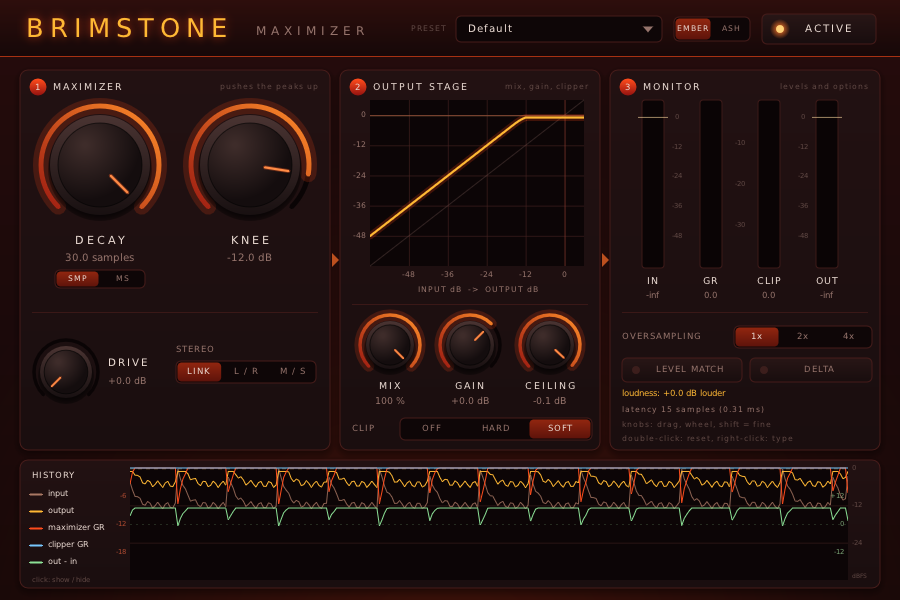
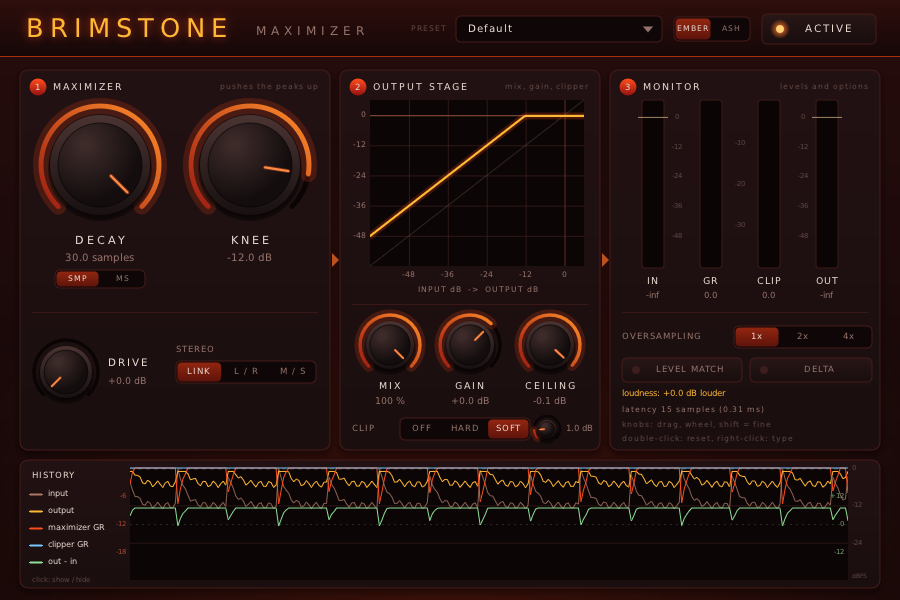
Soft clip knee (clip_knee, 0.1-6 dB below the ceiling)
Was fixed at 60 % of the ceiling (4.44 dB): Default rounded every peak
pushed to the ceiling by 0.87 dB.  Presets: Default and Loud master
1 dB (0.23 dB), Subtle 2 dB, Wide crush 4.44 dB (1.1.0 sound kept).
Small knob next to the Clip selector, greyed outside Soft; transfer
curve follows it; user preset key clip_knee.  Test 11 of test_dsp.

Changed region(s): [[0.4667, 0.69, 0.6533, 0.75], [0.56, 0.18, 0.6533, 0.21]]

diff --git a/plugin/BrimstoneUI.cpp b/plugin/BrimstoneUI.cpp
@@ -141,7 +141,7 @@ static const Rect kSecMon  = { 610, 70, 270, 380 };
 static const Rect kHistory = { 20, 460, 860, 128 };
 static const Rect kHistPlot = { 130, 468, 718, 112 };   // waveform / reduction area
 
-enum { kKnobDecay = 0, kKnobKnee, kKnobDrive, kKnobMix, kKnobGain, kKnobCeiling, kNumKnobs };
+enum { kKnobDecay = 0, kKnobKnee, kKnobDrive, kKnobMix, kKnobGain, kKnobCeiling, kKnobClipKnee, kNumKnobs };
 
 struct KnobDef {
     int param;          // kParamDecay is replaced by kParamDecayMs when the unit is ms
@@ -149,27 +149,31 @@ struct KnobDef {
     bool labelRight;    // small knob of the maximizer section: label on the right
     const char* label;
     const char* help;
+    bool compact;       // tiny knob in a row of selectors: no label, value on the right
 };
 
 static const KnobDef kKnobs[kNumKnobs] = {
     { kParamDecay,   100.0f, 165.0f, 50.0f, false, "DECAY",
-      "Release of the envelope. Short: harder and grittier; long: smoother." },
+      "Release of the envelope. Short: harder and grittier; long: smoother.", false },
     { kParamKnee,    250.0f, 165.0f, 50.0f, false, "KNEE",
-      "Peaks above the knee are pushed to the ceiling; below it the gain is constant (makeup)." },
+      "Peaks above the knee are pushed to the ceiling; below it the gain is constant (makeup).", false },
     { kParamDrive,    66.0f, 372.0f, 26.0f, true,  "DRIVE",
-      "Gain into the maximizer only: the dry signal of the mix is not changed." },
+      "Gain into the maximizer only: the dry signal of the mix is not changed.", false },
     { kParamMix,     390.0f, 345.0f, 24.0f, false, "MIX",
-      "Balance between the dry signal and the maximizer. 0 %: maximizer off, pure clipper." },
+      "Balance between the dry signal and the maximizer. 0 %: maximizer off, pure clipper.", false },
     { kParamGain,    470.0f, 345.0f, 24.0f, false, "GAIN",
-      "Gain after the mix, into the clipper: pushes the peaks over the ceiling." },
+      "Gain after the mix, into the clipper: pushes the peaks over the ceiling.", false },
     { kParamCeiling, 550.0f, 345.0f, 24.0f, false, "CEILING",
-      "Highest output level. Peaks above it are clipped when Clip is Hard or Soft." },
+      "Highest output level. Peaks above it are clipped when Clip is Hard or Soft.", false },
+    { kParamClipKnee, 547.0f, 429.0f, 9.0f, false, "SOFT KNEE",
+      "Clip Soft: the rounding starts this many dB below the ceiling. Small: closer to Hard, louder "
+      "peaks; large: rounder, peaks pushed to the ceiling come out lower.", true },
 };
 
 static const Rect kUnit    = { 55, 270, 90, 18 };
 static const Rect kStereo  = { 176, 361, 140, 22 };
 static const Rect kGraph   = { 348, 96, 244, 200 };
-static const Rect kClip    = { 400, 418, 192, 22 };
+static const Rect kClip    = { 400, 418, 130, 22 };
 static const Rect kOvers   = { 734, 326, 138, 22 };
 static const Rect kMatch   = { 622, 358, 120, 24 };
 static const Rect kDelta   = { 750, 358, 122, 24 };
@@ -212,7 +216,8 @@ static const Zone kZones[kNumZones] = {
     { kGraph, "TRANSFER CURVE",
       "Output level for a steady input level, all settings included. The dot follows the input." },
     { kClip, "CLIP",
-      "OFF: like the original, may exceed 0 dBFS. HARD: flat at the ceiling. SOFT: rounded above 60 %." },
+      "OFF: like the original, may exceed 0 dBFS. HARD: flat at the ceiling. SOFT: rounded from "
+      "the soft knee (small knob on the right) up to the ceiling." },
     { kOvers, "OVERSAMPLING",
       "Runs the processing at 2x or 4x the sample rate: less aliasing, more latency and CPU." },
     { kMatch, "LEVEL MATCH",
@@ -1025,6 +1030,7 @@ private:
         case kParamMix:     std::snprintf(buf, size, "%.0f %%", v); break;
         case kParamGain:    std::snprintf(buf, size, "%+.1f dB", v); break;
         case kParamCeiling: std::snprintf(buf, size, "%.1f dB", v); break;
+        case kParamClipKnee: std::snprintf(buf, size, "%.1f dB", v); break;
         default:            std::snprintf(buf, size, "%.2f", v); break;
         }
     }
@@ -1278,7 +1284,12 @@ private:
         drawKnob(kKnobCeiling);
         label(kSecOut.x + 12, kClip.y + kClip.h * 0.5f, 10, fT->dim, ALIGN_LEFT | ALIGN_MIDDLE, "CLIP", 1);
         const char* const clip[3] = { "OFF", "HARD", "SOFT" };
-        segmented(kClip, clip, 3, static_cast<int>(std::lround(fValues[kParamClip])), 10);
+        const int clipMode = static_cast<int>(std::lround(fValues[kParamClip]));
+        segmented(kClip, clip, 3, clipMode, 10);
+        if (clipMode != kClipSoft)
+            globalAlpha(0.3f);   // the soft knee only acts in Soft
+        drawKnob(kKnobClipKnee);
+        globalAlpha(1.0f);
     }
 
     void drawMonitorSection()
@@ -1323,8 +1334,8 @@ private:
         const float n = toNorm(p, fValues[p]);
         const float a = kArcStart + n * kArcSweep;
         const bool big = k.r > 40.0f;
-        const float track = k.r + (big ? 9.0f : 6.0f);
-        const float tw = big ? 5.0f : 3.5f;
+        const float track = k.r + (big ? 9.0f : k.compact ? 4.0f : 6.0f);
+        const float tw = big ? 5.0f : k.compact ? 2.5f : 3.5f;
 
         beginPath();
         arc(k.cx, k.cy, track, kArcStart, kArcStart + kArcSweep, CW);
@@ -1372,10 +1383,10 @@ private:
         moveTo(k.cx + ca * k.r * 0.30f, k.cy + sa * k.r * 0.30f);
         lineTo(k.cx + ca * k.r * 0.78f, k.cy + sa * k.r * 0.78f);
         lineCap(ROUND);
-        strokeWidth(big ? 4.0f : 3.0f);
+        strokeWidth(big ? 4.0f : k.compact ? 2.4f : 3.0f);
         strokeColor(fT->pointerGlow);
         stroke();
-        strokeWidth(big ? 2.2f : 1.8f);
+        strokeWidth(big ? 2.2f : k.compact ? 1.4f : 1.8f);
         strokeColor(active ? fT->gold : fT->pointer);
         stroke();
 
@@ -1383,7 +1394,13 @@ private:
         valueText(p, buf, sizeof(buf));
         float vx, vy;
         int align;
-        if (k.labelRight)
+        if (k.compact)
+        {
+            vx = k.cx + k.r + 10;   // no label (it is in the tooltip), the value on the right
+            vy = k.cy;
+            align = ALIGN_LEFT | ALIGN_MIDDLE;
+        }
+        else if (k.labelRight)
         {
             label(k.cx + k.r + 16, k.cy - 9, 12, fT->text, ALIGN_LEFT | ALIGN_MIDDLE, k.label, 2);
             vx = k.cx + k.r + 16;
@@ -1401,7 +1418,7 @@ private:
 
         if (i == fEdit)
         {
-            const float bw = 76.0f, bx = k.labelRight ? vx - 4 : vx - bw * 0.5f;
+            const float bw = k.compact ? 46.0f : 76.0f, bx = k.labelRight || k.compact ? vx - 4 : vx - bw * 0.5f;
             beginPath();
             roundedRect(bx, vy - 10, bw, 20, 4);
             fillColor(fT->deepWell);
@@ -1415,13 +1432,13 @@ private:
         }
         else
         {
-            label(vx, vy, big ? 12 : 11, active ? fT->gold : fT->dim, align, buf);
+            label(vx, vy, big ? 12 : k.compact ? 10 : 11, active ? fT->gold : fT->dim, align, buf);
         }
     }
 
-    static float softClip(const float x, const float ceiling)
+    float softClip(const float x, const float ceiling) const
     {
-        const float t = 0.6f * ceiling;
+        const float t = std::pow(10.0f, -fValues[kParamClipKnee] * 0.05f) * ceiling;
         if (x <= t)
             return x;
         const float r = ceiling - t;

diff --git a/plugin/BrimstoneParams.hpp b/plugin/BrimstoneParams.hpp
@@ -21,6 +21,7 @@ enum BrimstoneParam {
     kParamGain,        // gain into the clipper (after the mix), dB
     kParamOversampling,// 0 = 1x, 1 = 2x, 2 = 4x
     kParamMatch,       // level-matched listening (0/1)
+    kParamClipKnee,    // soft clip: the rounding starts this many dB below the ceiling
     kParamBypass,      // host bypass
     kParamDelta,       // listen to the difference: output minus the input at the linear gain (0/1)
     // outputs
@@ -57,6 +58,7 @@ static const BrimstoneRange kBrimstoneRanges[kParamCount] = {
     { -24.0f,  12.0f,   0.0f },   // output
     {   0.0f,   2.0f,   0.0f },   // oversampling
     {   0.0f,   1.0f,   0.0f },   // match
+    {   0.1f,   6.0f,   1.0f },   // clip knee, dB below the ceiling (1.1.0: 4.44 dB = 60 %)
     {   0.0f,   1.0f,   0.0f },   // bypass
     {   0.0f,   1.0f,   0.0f },   // delta
     { -60.0f,   6.0f, -60.0f },   // meter in
@@ -72,8 +74,9 @@ static const BrimstoneRange kBrimstoneRanges[kParamCount] = {
 };
 
 // ------------------------------------------------------------------------------------------------
-// Factory presets: values of the input parameters kParamDecay .. kParamMatch (bypass and delta,
-// monitoring switches, excluded).
+// Factory presets: values of the input parameters kParamDecay .. kParamClipKnee (bypass and
+// delta, monitoring switches, excluded).  Clip knee: 1 dB costs 0.23 dB on peaks pushed to the
+// ceiling, 2 dB 0.45 dB, 4.44 dB (the fixed 60 % of 1.1.0) 0.87 dB.
 
 static const int kPresetParamCount = kParamBypass;
 
@@ -83,15 +86,15 @@ struct BrimstonePreset {
 };
 
 static const BrimstonePreset kBrimstonePresets[] = {
-    //                     decay  ms   unit  knee  drive ceil  clip stereo mix  gain os  match
-    { "Default",         { 30.0f, 0.68f, 0, -12.0f, 0.0f, -0.1f, 2, 0, 100.0f,  0.0f, 0, 0 } },
-    { "Original (swh)",  { 30.0f, 0.68f, 0, -12.0f, 0.0f,  0.0f, 0, 1, 100.0f,  0.0f, 0, 0 } },
-    { "Subtle",          { 30.0f, 0.68f, 0,  -6.0f, 0.0f, -0.3f, 2, 0,  60.0f,  0.0f, 1, 0 } },
-    { "Loud master",     { 30.0f, 1.50f, 1, -14.0f, 3.0f, -0.3f, 2, 0, 100.0f,  0.0f, 2, 0 } },
-    { "Wide crush",      { 12.0f, 0.27f, 0, -24.0f, 0.0f, -0.5f, 2, 2,  70.0f,  0.0f, 1, 0 } },
-    { "Destruction",     {  2.0f, 0.05f, 0, -45.0f, 12.0f, -1.0f, 1, 1, 100.0f, -3.0f, 0, 0 } },
+    //                     decay  ms   unit  knee  drive ceil  clip stereo mix  gain os  match cknee
+    { "Default",         { 30.0f, 0.68f, 0, -12.0f, 0.0f, -0.1f, 2, 0, 100.0f,  0.0f, 0, 0, 1.0f } },
+    { "Original (swh)",  { 30.0f, 0.68f, 0, -12.0f, 0.0f,  0.0f, 0, 1, 100.0f,  0.0f, 0, 0, 1.0f } },
+    { "Subtle",          { 30.0f, 0.68f, 0,  -6.0f, 0.0f, -0.3f, 2, 0,  60.0f,  0.0f, 1, 0, 2.0f } },
+    { "Loud master",     { 30.0f, 1.50f, 1, -14.0f, 3.0f, -0.3f, 2, 0, 100.0f,  0.0f, 2, 0, 1.0f } },
+    { "Wide crush",      { 12.0f, 0.27f, 0, -24.0f, 0.0f, -0.5f, 2, 2,  70.0f,  0.0f, 1, 0, 4.44f } },
+    { "Destruction",     {  2.0f, 0.05f, 0, -45.0f, 12.0f, -1.0f, 1, 1, 100.0f, -3.0f, 0, 0, 1.0f } },
     // pure clipper: mix 0 % bypasses the maximizer core, Gain drives the clipper
-    { "Clipper",         { 30.0f, 0.68f, 0, -12.0f, 0.0f, -0.3f, 1, 1,   0.0f,  3.0f, 2, 0 } },
+    { "Clipper",         { 30.0f, 0.68f, 0, -12.0f, 0.0f, -0.3f, 1, 1,   0.0f,  3.0f, 2, 0, 1.0f } },
 };
 
 static const int kBrimstonePresetCount = sizeof(kBrimstonePresets) / sizeof(kBrimstonePresets[0]);

diff --git a/plugin/BrimstonePlugin.cpp b/plugin/BrimstonePlugin.cpp
@@ -236,10 +236,9 @@ private:
 
 // ------------------------------------------------------------------------------------------------
 
-static inline float softClip(const float x, const float ceiling)
+// linear up to t (below the ceiling: the knee), then a tanh shoulder that never exceeds the ceiling
+static inline float softClip(const float x, const float ceiling, const float t)
 {
-    // linear up to 60 % of the ceiling, then a tanh shoulder that never exceeds the ceiling
-    const float t = 0.6f * ceiling;
     const float a = std::fabs(x);
     if (a <= t)
         return x;
@@ -395,6 +394,7 @@ protected:
             set(p, "Oversampling", "oversampling", "");
             enumeration(p, 3, "1x", "2x", "4x");
             break;
+        case kParamClipKnee: set(p, "Clip knee", "clip_knee", "dB"); break;
         case kParamMatch:
             set(p, "Level match", "match", "");
             p.hints |= kParameterIsBoolean | kParameterIsInteger;
@@ -480,6 +480,7 @@ protected:
         const float ceilT = dbToGain(fParams[kParamCeiling]);
         const float mixT = fParams[kParamMix] * 0.01f;
         const float outT = dbToGain(fParams[kParamGain]);
+        const float softT = dbToGain(-fParams[kParamClipKnee]);   // knee of the soft clip / ceiling
         const float bypassT = fParams[kParamBypass] > 0.5f ? 1.0f : 0.0f;
         const float deltaT = fParams[kParamDelta] > 0.5f ? 1.0f : 0.0f;
         const bool deltaOn = deltaT > 0.0f || fDelta > 0.0f;
@@ -517,6 +518,7 @@ protected:
                 fCeil += (ceilT - fCeil) * sm;
                 fMix += (mixT - fMix) * sm;
                 fOut += (outT - fOut) * sm;
+                fSoft += (softT - fSoft) * sm;
 
                 Detector& da = fDet[fActive];
                 Detector& db = fDet[1 - fActive];
@@ -589,7 +591,7 @@ protected:
                     if (clip == kClipHard)
                         yc = std::fmin(std::fmax(y, -fCeil), fCeil);
                     else if (clip == kClipSoft)
-                        yc = softClip(y, fCeil);
+                        yc = softClip(y, fCeil, fSoft * fCeil);
                     if (yc != y)
                         minClip = std::fmin(minClip, yc / y);
                     wetInt[c][o] = yc;
@@ -844,6 +846,7 @@ private:
         fCeil = dbToGain(fParams[kParamCeiling]);
         fMix = fParams[kParamMix] * 0.01f;
         fOut = dbToGain(fParams[kParamGain]);
+        fSoft = dbToGain(-fParams[kParamClipKnee]);
         fBypass = fParams[kParamBypass] > 0.5f ? 1.0f : 0.0f;
         fDelta = fParams[kParamDelta] > 0.5f ? 1.0f : 0.0f;
         fSmoothInt = static_cast<float>(1.0 - std::exp(-1.0 / (0.01 * sr * os)));
@@ -871,7 +874,8 @@ private:
     unsigned fMask = 0, fBaseMask = 0, fPos = 0, fBasePos = 0;
     unsigned fLfix = 0, fLatency = 0;
     int fConfigKey = -1;
-    float fKnee = 1.0f, fDrive = 1.0f, fCeil = 1.0f, fMix = 1.0f, fOut = 1.0f, fBypass = 0.0f, fDelta = 0.0f;
+    float fKnee = 1.0f, fDrive = 1.0f, fCeil = 1.0f, fMix = 1.0f, fOut = 1.0f, fSoft = 0.6f;
+    float fBypass = 0.0f, fDelta = 0.0f;
     float fSmoothInt = 0.0f, fSmoothBase = 0.0f;
     float fMeterIn = 0.0f, fMeterOut = 0.0f, fMeterRel = 1.0f, fMeterClip = 1.0f;
     RecentPeak fRecentIn, fRecentOut, fRecentGR, fRecentClip;

diff --git a/tests/test_dsp.cpp b/tests/test_dsp.cpp
@@ -15,6 +15,7 @@
  * 8. Meters: maximizer and clipper reductions, history peaks.
  * 10. Delta: zero when nothing is clipped nor reduced; with the Clipper preset, exactly what the
  *     clipper removes; Bypass has priority.
+ * 11. Soft clip knee: at 1x with Mix 0, output == soft clip of (input x gain) from the knee.
  * 9. Denormals: FTZ / DAZ are switched on in run() only, the FPU state of the caller is
  *    restored (the gain in silence is measured by tests/bench_cpu.cpp).
  */
@@ -421,6 +422,35 @@ int main()
         for (size_t i = lb; i < N; ++i)
             same = same && oL[i] == L[i - lb] && oR[i] == R[i - lb];
         check(same, "bypass and delta: output == input delayed, exactly");
+    }
+
+    // 11. soft clip knee -----------------------------------------------------------------------
+    std::printf("11. soft clip knee (mix 0, 1x)\n");
+    {
+        Settings s;
+        for (int i = 0; i < kPresetParamCount; ++i)
+            s.values[i] = kBrimstonePresets[0].values[i];
+        s.values[kParamMix] = 0.0f;
+        s.values[kParamGain] = 6.0f;
+        s.values[kParamClip] = kClipSoft;
+        for (const float kneeDb : { 0.1f, 1.0f, 4.44f, 6.0f })
+        {
+            s.values[kParamClipKnee] = kneeDb;
+            const uint32_t lat = process(s, L, R, oL, oR);
+            const float g = dbToGain(6.0f), c = dbToGain(s.values[kParamCeiling]);
+            const float t = c * dbToGain(-kneeDb);
+            float err = 0.0f, peak = 0.0f;
+            for (size_t i = lat; i < N; ++i)
+            {
+                const float x = L[i - lat] * g;
+                err = std::max(err, fabsf(oL[i] - softClip(x, c, t)));
+                peak = std::max(peak, fabsf(oL[i]));
+            }
+            char buf[128];
+            std::snprintf(buf, sizeof(buf), "knee %.2f dB: out == soft clip from the knee, max error %.1e, peak %.2f dBFS",
+                          kneeDb, err, 20.0f * log10f(peak));
+            check(err < 1e-6f && peak <= c, buf);
+        }
     }
 
     std::printf("%s\n", gFailures ? "FAILED" : "all tests passed");

diff --git a/tests/test_user_presets.cpp b/tests/test_user_presets.cpp
@@ -48,12 +48,12 @@ int main()
     check(!save("Default", kBrimstonePresets[0].values) && !save("loud MASTER", kBrimstonePresets[0].values),
           "factory names refused");
 
-    const float a[kPresetParamCount] = { 17.25f, 0.4123457f, 1, -33.3f, 6.5f, -0.3f, 1, 2, 62.5f, -1.75f, 2, 1 };
+    const float a[kPresetParamCount] = { 17.25f, 0.4123457f, 1, -33.3f, 6.5f, -0.3f, 1, 2, 62.5f, -1.75f, 2, 1, 2.7f };
     check(save("Bright", a), "save");
     float r[kPresetParamCount] = { 0 };
     check(load("Bright", r) && sameValues(a, r), "read back exactly");
 
-    const float b[kPresetParamCount] = { 2, 0.05f, 0, -90, 0, -12, 0, 0, 0, -24, 0, 0 };
+    const float b[kPresetParamCount] = { 2, 0.05f, 0, -90, 0, -12, 0, 0, 0, -24, 0, 0, 0.1f };
     check(save("aggressive", b) && save("Calm", kBrimstonePresets[2].values), "save two more");
     const std::vector<std::string> names = list();
     check(names.size() == 3 && names[0] == "aggressive" && names[1] == "Bright" && names[2] == "Calm",

diff --git a/plugin/BrimstoneUserPresets.hpp b/plugin/BrimstoneUserPresets.hpp
@@ -43,7 +43,7 @@ static const size_t kMaxNameLength = 24;
 // file keys of the preset parameters kParamDecay .. kParamMatch
 static const char* const kUserPresetKeys[kPresetParamCount] = {
     "decay", "decay_ms", "decay_unit", "knee", "drive", "ceiling", "clip", "stereo", "mix", "gain",
-    "oversampling", "match",
+    "oversampling", "match", "clip_knee",
 };
 
 static inline bool validName(const std::string& name)

diff --git a/LISEZMOI.md b/LISEZMOI.md
@@ -33,7 +33,8 @@ entrée → suréchantillonnage → Drive → cœur → × Ceiling, mélange ave
 | Knee | -90..0 dB ; au-dessus, crêtes ramenées au plafond |
 | Drive | 0..24 dB, gain d'entrée du seul signal traité |
 | Ceiling | -12..0 dB, niveau de sortie maximal |
-| Clip | Off (original : la sortie peut dépasser 0 dBFS, jusqu'à +6 dB), Hard, Soft (linéaire jusqu'à 60 % du plafond puis épaule en tanh) |
+| Clip | Off (original : la sortie peut dépasser 0 dBFS, jusqu'à +6 dB), Hard, Soft (linéaire jusqu'au soft knee puis épaule en tanh jusqu'au plafond) |
+| Soft knee | 0,1-6 dB sous le plafond : début de l'arrondi en Soft (petit bouton à droite de Clip, grisé hors Soft). Crête poussée au plafond par le maximiseur : -0,23 dB à 1 dB, -0,45 dB à 2 dB, -0,87 dB à 4,44 dB (60 % du plafond, la valeur fixe de la 1.1.0). Préréglages : 1 dB (Default, Loud master), 2 dB (Subtle), 4,44 dB (Wide crush, caractère gardé) ; sans effet dans les autres (Off ou Hard) |
 | Stereo | Link (détecteur commun), L/R (chaque canal : l'original), M/S |
 | Mix | sec/traité ; à 0 % le maximiseur est hors circuit (écrêteur pur) |
 | Gain | -24..+12 dB après le mélange, avant l'écrêtage : pousse les crêtes au-dessus du plafond (s'appelait Output) |
@@ -145,8 +146,9 @@ dans `C:\Program Files\Common Files\VST3\`, `brimstone_maximizer.clap` dans `...
 resynchronisé après rechargement d'un préréglage). Correctif à proposer à DPF.
 
 ## Vérifications
-- `tests/test_dsp.cpp` (33 cas, dont l'état du FPU rétabli après `run` et Delta : nul sur une
-  chaîne linéaire en 1x et 4x, égal à ce que retire l'écrêteur avec Clipper, Bypass prioritaire) : original, plafond (1x/2x/4x, Hard/Soft), Bypass exact,
+- `tests/test_dsp.cpp` (37 cas, dont l'état du FPU rétabli après `run` et Delta : nul sur une
+  chaîne linéaire en 1x et 4x, égal à ce que retire l'écrêteur avec Clipper, Bypass prioritaire ;
+  soft knee : sortie exacte en 1x de 0,1 à 6 dB) : original, plafond (1x/2x/4x, Hard/Soft), Bypass exact,
   latence en 2x/4x (écart ≤ 1,6e-5 sur un sinus de 1 kHz), changements de Decay, préréglages,
   écrêteur pur, mesures (réductions du maximiseur et de l'écrêteur, crêtes de l'historique).
 - Banc de CPU (`tests/bench_cpu.cpp`, hors `build.sh`, commande en tête du fichier) : ns par
@@ -195,5 +197,5 @@ Améliorations : voir `AMELIORATIONS.md`.
   donnée depuis Linux est ignorée ; pour essayer un autre dossier, `_wputenv` dans le programme.
 - Reste : voir `AMELIORATIONS.md` (2e série : A-D, F-H à décider par l'utilisateur ; essais sur un
   vrai Windows, dont le clic sur la pastille de thème ; correctif à proposer à DPF).
-- Défaut connu, non changé : dans Default (Soft), l'écrêteur arrondit toujours ~1 dB, car il
-  commence à 60 % du plafond alors que le maximiseur pousse les crêtes au plafond.
+- Compatibilité avec la 1.1.0 : réglages des projets relus par symbole ; un projet 1.1.0 en Soft
+  reprend le soft knee par défaut (1 dB) au lieu de 4,44 dB (crêtes ~0,6 dB plus hautes).

diff --git a/AMELIORATIONS.md b/AMELIORATIONS.md
@@ -72,6 +72,12 @@ B. **Écoute de la différence** (« Delta ») : bouton qui fait entendre sortie
 C. **Douceur de l'écrêteur Soft réglable** (corrige le défaut connu de `LISEZMOI.md`) : paramètre
    Knee du Clip (seuil de 60 % aujourd'hui, en dur) ; à 90-95 %, Default n'arrondirait plus ~1 dB
    en permanence. Change le son de Default seulement si on change sa valeur (décision).
+   **Fait** (2026-11-25) : paramètre `clip_knee` « Soft knee », 0,1-6 dB sous le plafond (après
+   Level match : l'automation des paramètres existants reste en place), lissé comme les autres.
+   Valeurs choisies (laissées à mon choix) : Default et Loud master 1 dB (-0,23 dB sur les
+   crêtes au plafond au lieu de -0,87), Subtle 2 dB (plus doux, -0,45 dB), Wide crush 4,44 dB
+   (son de la 1.1.0 gardé), autres 1 dB (sans effet : Off ou Hard). Défaut du paramètre : 1 dB.
+   Projets 1.1.0 en Soft : 1 dB au lieu de 4,44 dB (le symbole manque dans leur état). Test 11.
 D. **Sonie selon ITU-R BS.1770** (pondération K) pour Level match et l'écart affiché, au lieu du
    RMS large bande : la comparaison suit mieux l'oreille (le RMS surestime les graves). Affichage
    possible en LU. Change les valeurs affichées et la compensation (décision).
